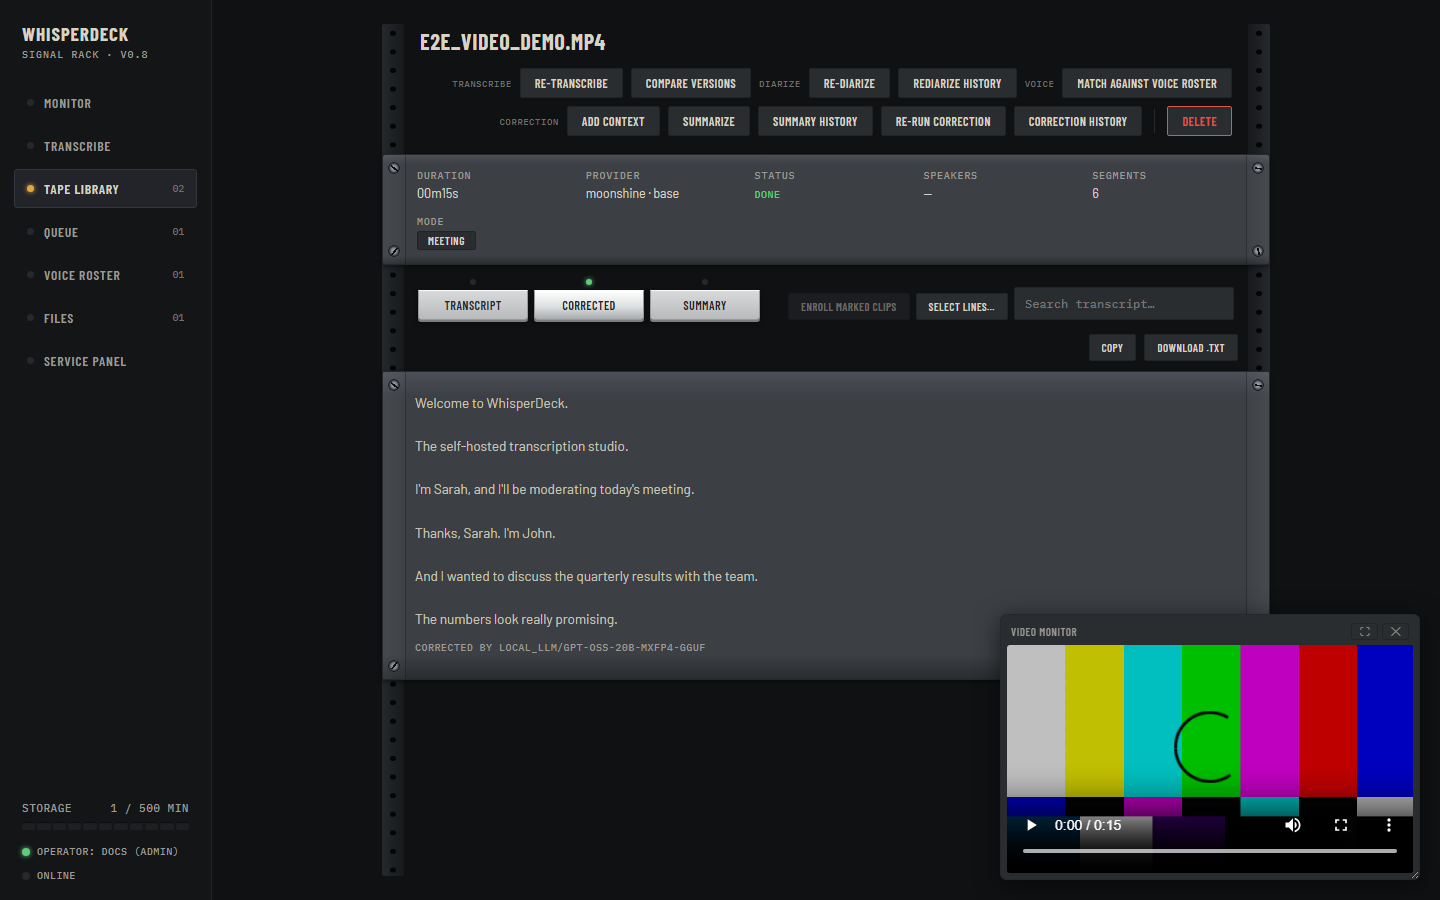
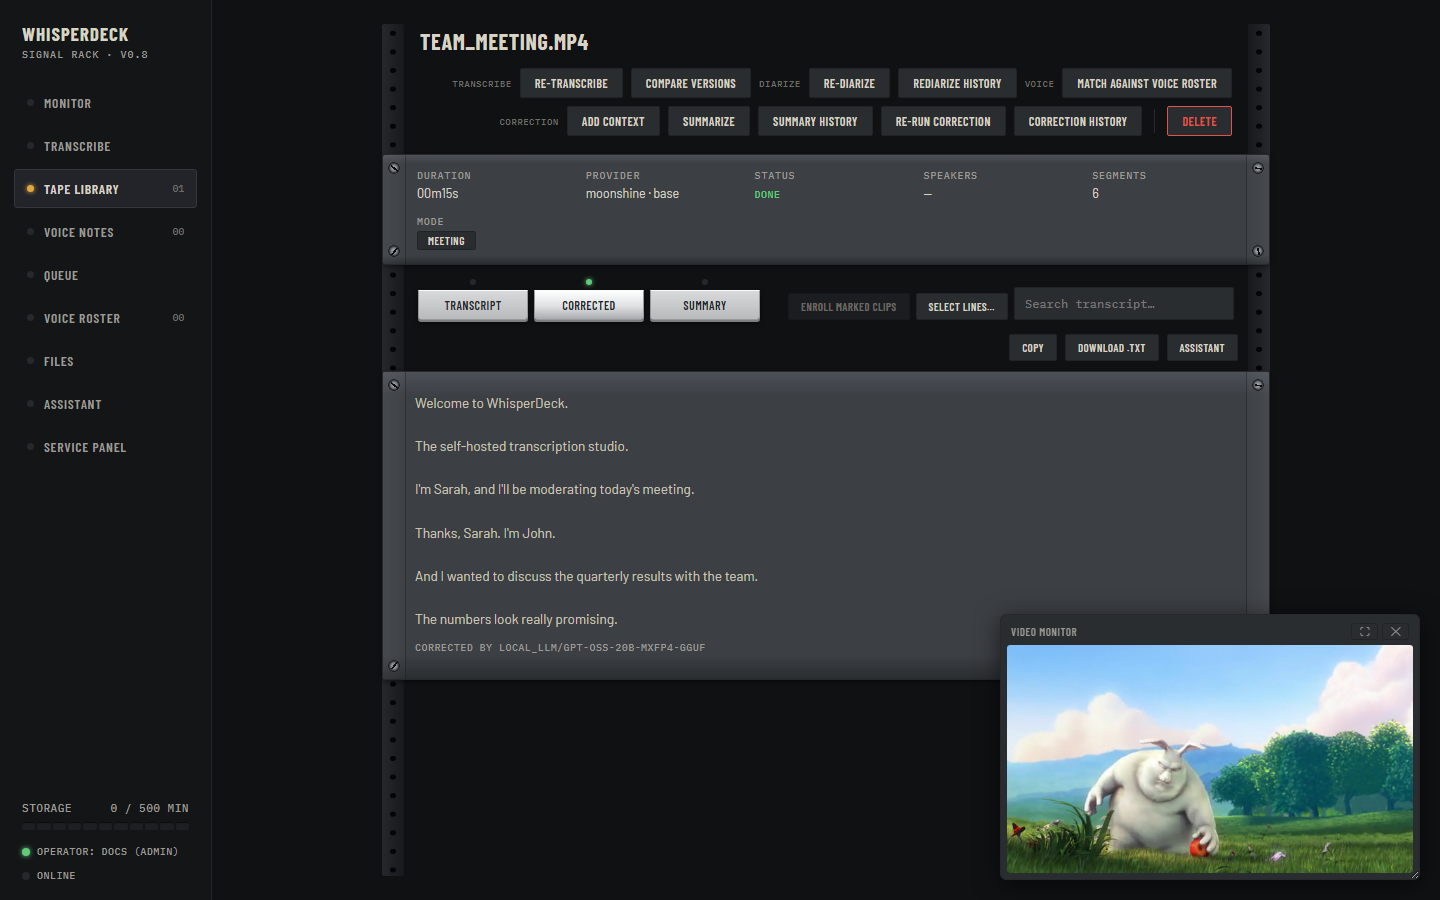
docs: use real video-panel screenshot as README hero image
Big Buck Bunny (CC BY 3.0, Blender Foundation) via Internet Archive,
muxed with the existing TTS dialogue fixture so the transcript stays
coherent. Replaces the static color-bars screenshot as the first
README image.

diff --git a/README.md b/README.md
@@ -10,6 +10,10 @@ WhisperDeck is a self-hosted transcription studio that runs in your browser. Upl
 
 It's multi-user (register/login, per-user transcripts, settings, and API keys), and every long-running operation goes through a background job queue with live progress, cancel/resume, and retry.
 
+![Transcript detail with the floating video panel detached and playing over the corrected transcript, LLM correction attribution visible below](screenshots/14-video-panel.png)
+
+<sub>Demo video: [Big Buck Bunny](https://peach.blender.org) © 2008, Blender Foundation, [CC BY 3.0](https://creativecommons.org/licenses/by/3.0/). Dialogue audio is synthetic (TTS), not from the film.</sub>
+
 ![WhisperDeck Monitor — at-a-glance stats, transcript library, voice roster, and storage bargraph in the "Signal Rack" chassis](screenshots/01-monitor.png)
 
 ---
